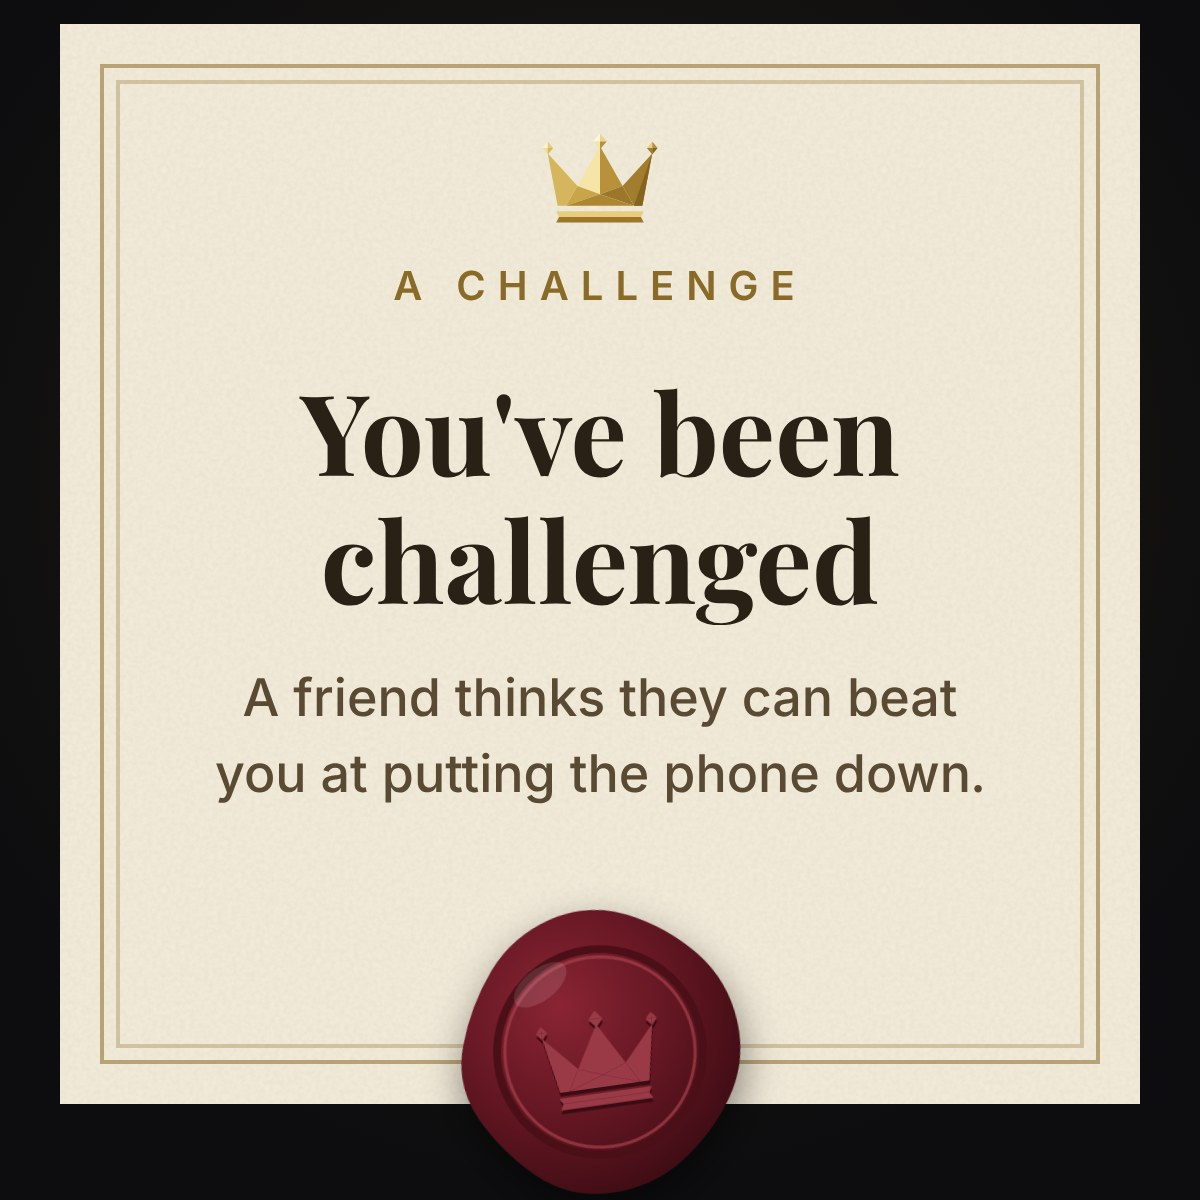
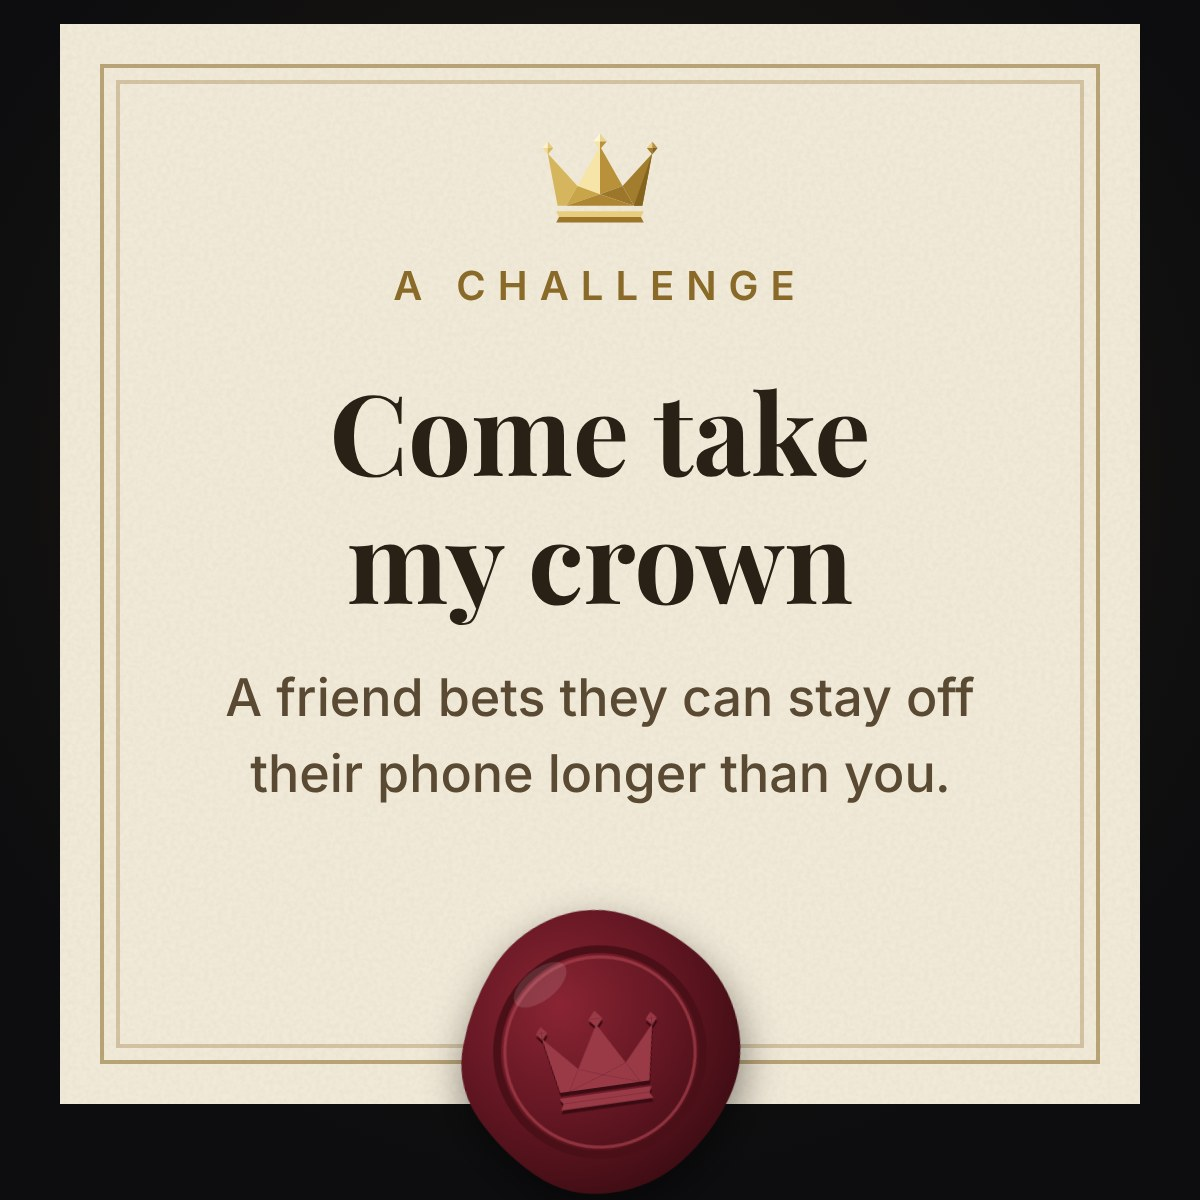
Invite page: final wording (Come take my crown)
Claude-Session: https://claude.ai/code/session_01JaNXECV5yh4FBJv5rVShKc

diff --git a/conquer-site/invite.html b/conquer-site/invite.html
@@ -3,9 +3,9 @@
 <head>
 <meta charset="utf-8">
 <meta name="viewport" content="width=device-width, initial-scale=1">
-<title>You've been challenged · Conquer Your Screen Time</title>
-<meta property="og:title" content="You've been challenged">
-<meta property="og:description" content="A friend thinks they can beat you at putting the phone down. Do you accept?">
+<title>Come take my crown · Conquer Your Screen Time</title>
+<meta property="og:title" content="Come take my crown">
+<meta property="og:description" content="A friend bets they can stay off their phone longer than you. Do you accept?">
 <meta property="og:image" content="https://gamesbyvidal.github.io/conquer/invite-card.jpg">
 <meta property="og:image:width" content="1200">
 <meta property="og:image:height" content="1200">
@@ -25,7 +25,7 @@ small{color:#9a937f;font-size:13px;margin-top:16px}
 </style>
 </head>
 <body>
-<img src="invite-card.jpg" alt="A challenge: You've been challenged. A friend thinks they can beat you at putting the phone down.">
+<img src="invite-card.jpg" alt="A challenge: Come take my crown. A friend bets they can stay off their phone longer than you.">
 <h1>Do you accept?</h1>
 <p>Each day you both start with 1,000 points. Time on social and video apps costs the most. At 8 AM, you see who kept more.</p>
 <div class="code" id="code">······</div>
